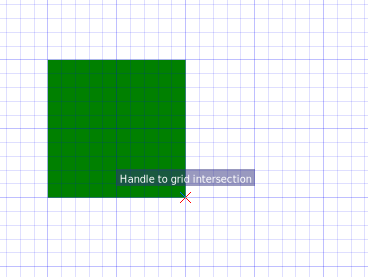
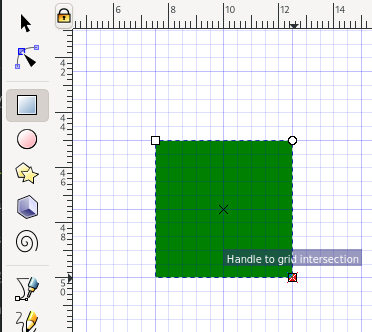
Starting on inkscape part.

diff --git a/2-1-getting-started.md b/2-1-getting-started.md
@@ -41,7 +41,7 @@ Next, make sure that "snapping" is enabled by default:
 
 Enable all toolbars:
 
-![ink](./figures-2/confs-dialogs.png)
+![ink](./figures-2/conf-dialogs.png)
 
 ### Configuring "step sizes"
 
@@ -70,11 +70,12 @@ Now find the `Grids` tab and click `New` to add a new rectangular grid.
 
 It should appear with the default settings you just configured.
 
+Note that you can set a non-zero origin for the grid.
+This can be useful to make the grid start a few mm from the edge of the "paper".
 
+### Drawing a rectangle and moving it around
 
-
-# Stuff
-![ink](./figures-2/prefs-steps-grid.png)
+Now we're going to draw a rectangle on the grid.
 
 On the right, in the snap toolbar, enable snapping to grids:
 
@@ -85,35 +86,31 @@ Also make sure snapping is enabled:
 ![ink](./figures-2/snap-enable.png)
 
 Now zoom in on the document (using Ctrl + scroll wheel), until you can see the minor grid lines.
-Find the rectangle tool in the left toolbar, and draw a rectangle onto the grid points
+Find the rectangle tool in the left toolbar, and draw a rectangle onto the grid points:
 
+![ink](./figures-2/snap-rect.png)
 
+Now go back to the cursor tool (top-left).
+The rectangle should now show move & resize handles.
+You can use these to transform the rectangle, or you can drag & drop the rectangle to move it around.
 
+![ink](./figures-2/snap-rect-move.png)
 
+But you can also use the arrow keys.
+If the settings above were applied correctly, a single tap on an arrow key should now move the rectangle exactly by exactly one grid distance.
+Use `Shift+Arrow key` to move it by 10 grid distances.
 
-The "origin"
+### Copy-pasting
 
-- grid
-- steps
+Now use `Ctrl+C` and `Ctrl+V` to create a copy of the rectangle.
+Weirdly, the rectangle appears in a slightly random place.
+You can drag-and-drop it back onto the grid with the mouse.
 
-Incomplete list of things I like to do first:
+Alternatively (and this is really useful!), use `Ctrl+Alt+V` to paste the copy _in exactly the same place_.
+You now have two perfectly overlapping rectangles, so you can only see one...
+Use `Shift+Arrow keys` to move it to a new grid position.
+Click a colour at the bottom of the screen to make the rectangle change colour.
+Repeat a few times to draw a multicoloured tetris block:
 
-
-- On the "Grids" tab, add a nice rectangular grid e.g. with steps every 0.5mm and a thicker line every 2.5mm
-- You can configure your grid as default in "Preferences"
-- Another thing to look at in "Preferences" is Behaviour > Steps. Set this to the same as your grid so that arrow keys or Shift+Arrow keys move the objects without going off the grid.
-- Make sure you have "snap" settings as in the tutorial above.
-
-- Start with a fixed width. 
-  - Use sensible font size e.g. 10.
-  - Can even use same font as article?
-
-
-### Starting a first document
-
-- Open `File > Document Properties`, and set the "Display units" to "mm" (or inches)
-- Set the width to whatever width the journal uses for a 2-column figure
-- Set the height to something bigger - you'll adjust this later
-
-- Enable the grid
+![ink](./figures-2/snap-rect-done.png)
 
